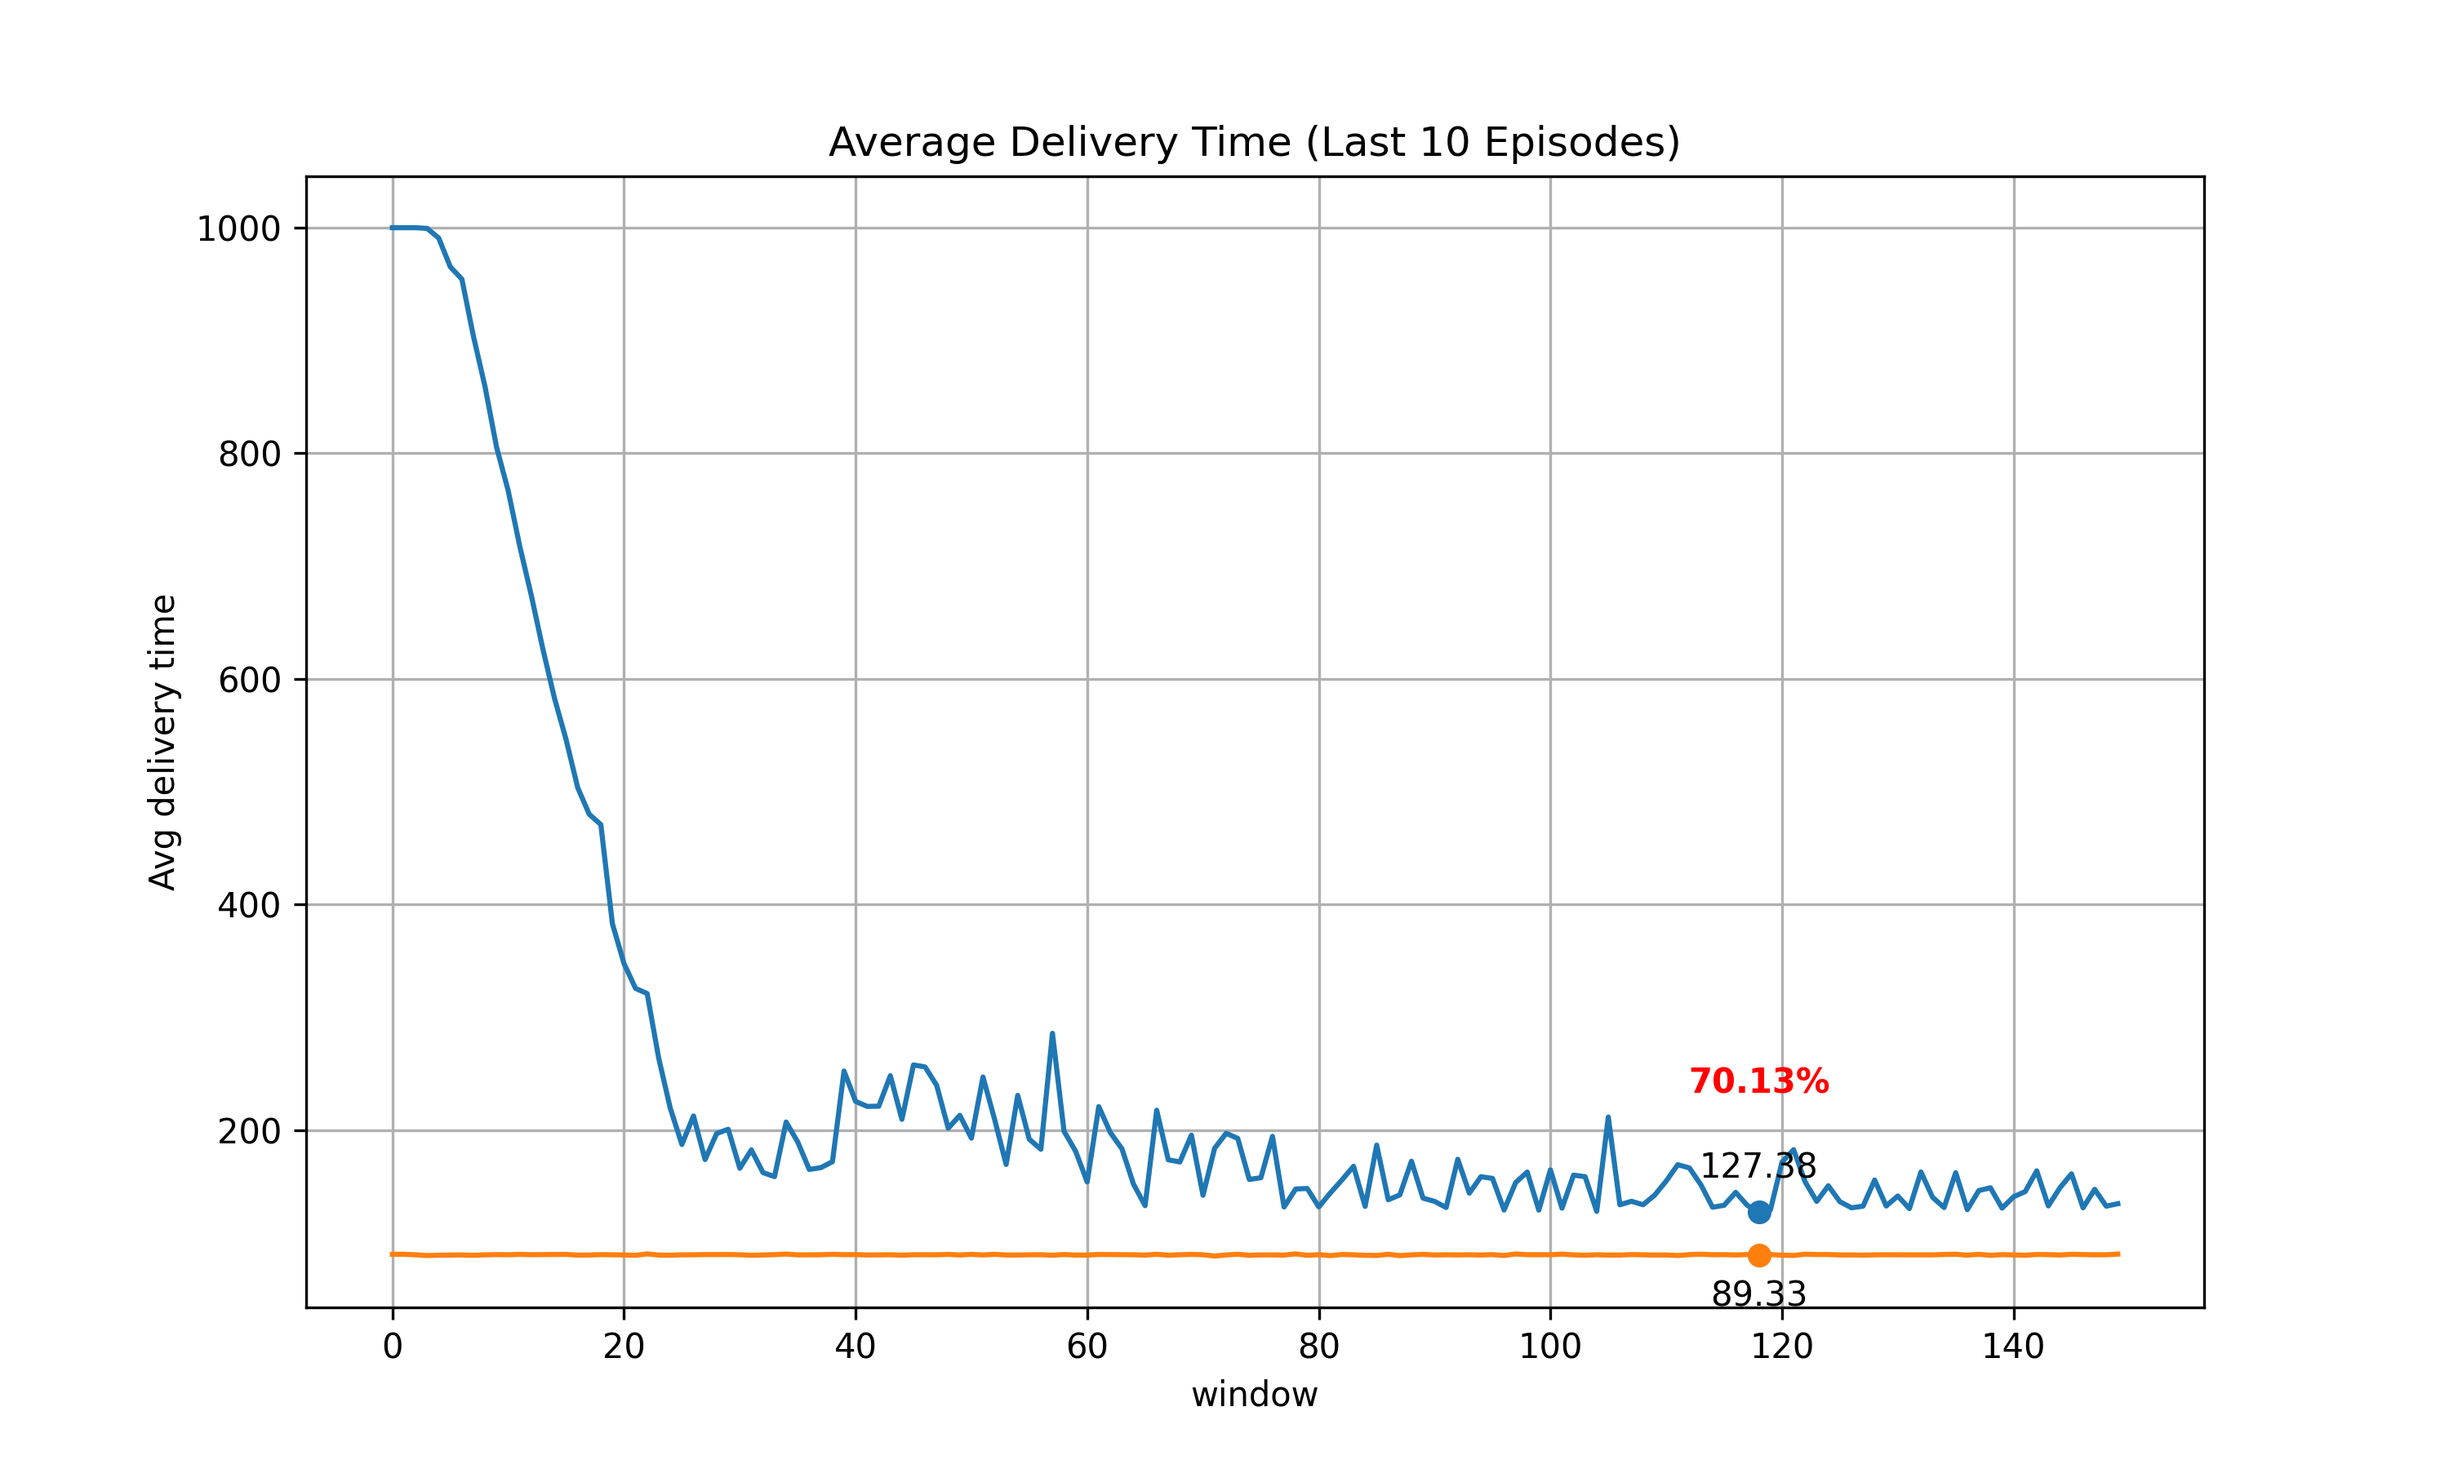
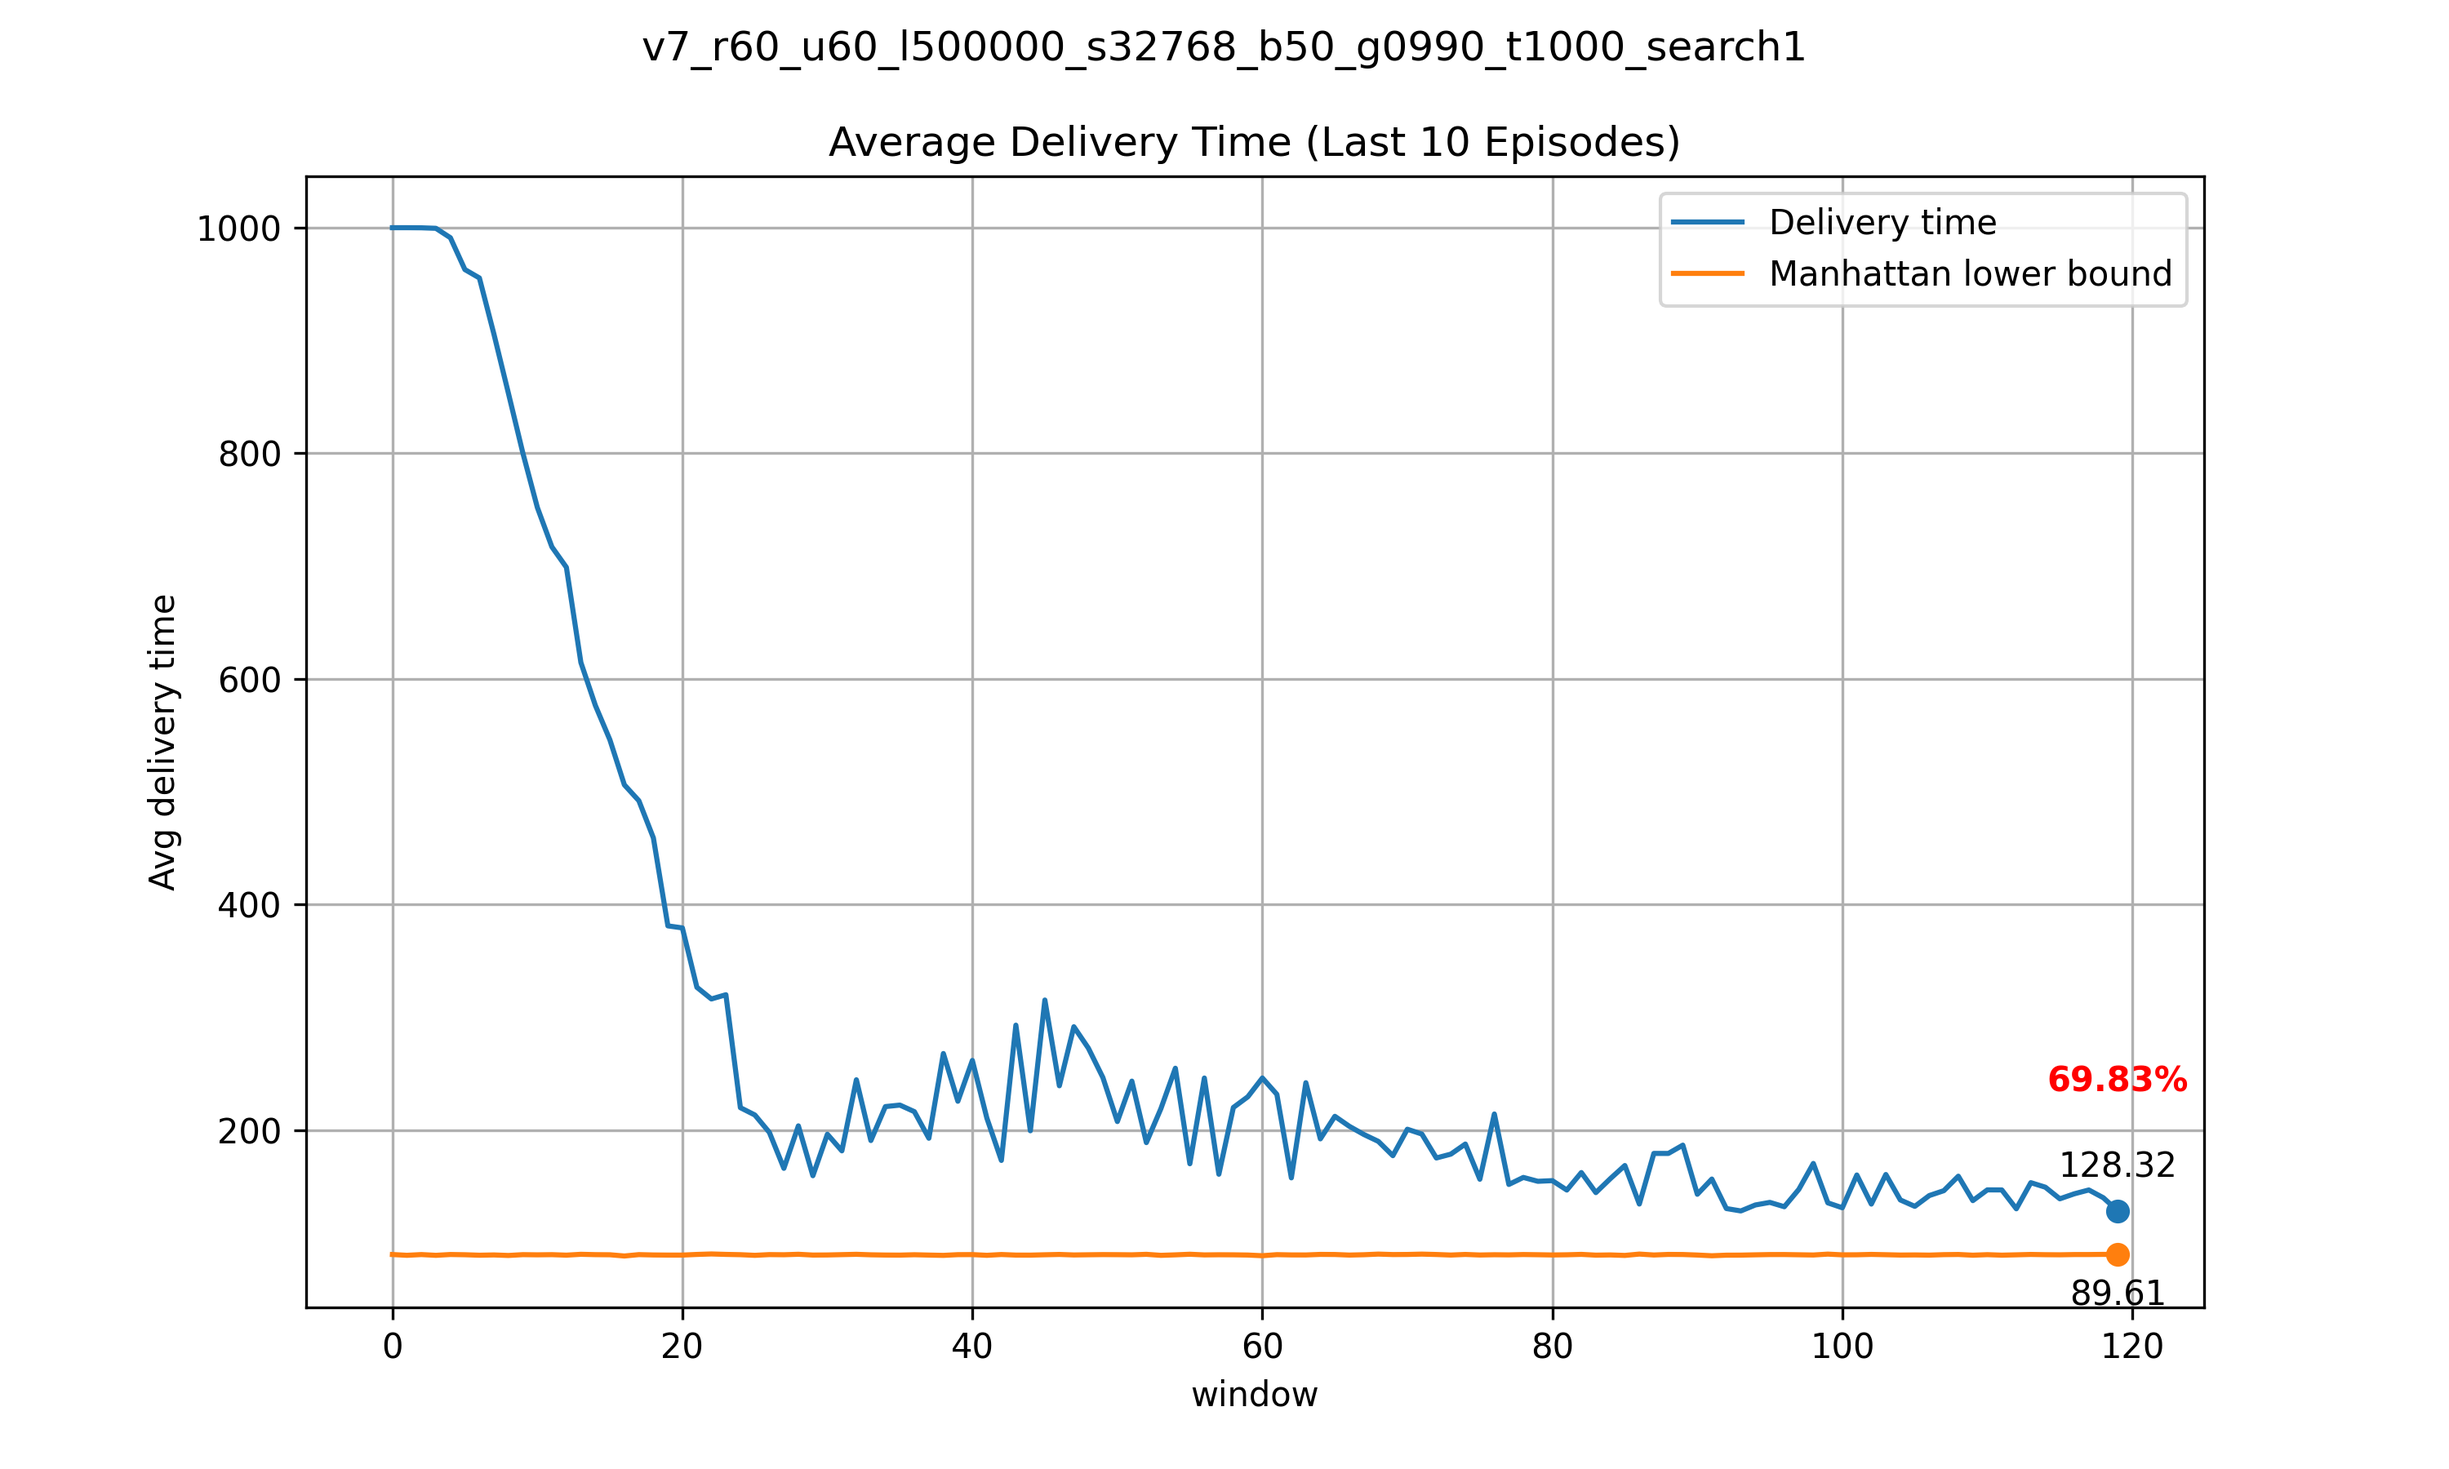
training results

diff --git a/src/utils/experiment_runner.py b/src/utils/experiment_runner.py
@@ -29,15 +29,15 @@ def run_experiments(force_train: bool = True, eval: bool = True):
 
     base_params = {
         "grid_size": [(20, 20)],
-        "step_limit": [1500],
+        "step_limit": [3000],
         "task_length": [5],
         "device": [device],
         "model_class": [MLP],
         "hidden_layers": [{"mlp_layers": [512]}],
-        "view_size": [11],
+        "view_size": [7],
         "buffer_length": [500_000],
         "num_robots": [60],
-        "target_update_interval": [60],
+        "target_update_interval": [30],
         "suffix": ["sample1"],
         "batch_size": [4096 * 6],
         "num_batches": [45],
@@ -50,67 +50,10 @@ def run_experiments(force_train: bool = True, eval: bool = True):
                 {"mlp_layers": [512]},
             ],
             "view_size": [7],
-            "num_batches": [50],
-            "batch_size": [4096 * 8],
-            "num_episodes": [800],
+            "num_batches": [25, 30, 35, 40, 45, 50, 55, 60, 65],
+            "batch_size": [4096 * 8, 4096 * 4, 4096 * 2, 4096],
             "suffix": ["search1"],
-            "step_limit": [
-                600,
-                800,
-                1000,
-                1200,
-                1400,
-                1600,
-                1800,
-                2000,
-                2500,
-                3000,
-                3500,
-                4000,
-            ],
-            "target_update_interval": [60],
-            "buffer_length": [500_000],
-            "float_goal_vector": [True],
-        },
-        {
-            "model_class": [MLP],
-            "hidden_layers": [
-                {"mlp_layers": [512]},
-            ],
-            "view_size": [7],
-            "num_batches": [50],
-            "batch_size": [4096 * 8, 4096 * 16, 4096 * 32, 4096 * 64],
-            "num_episodes": [1500],
-            "suffix": ["search1"],
-            "target_update_interval": [60],
-            "buffer_length": [500_000],
-            "float_goal_vector": [True],
-        },
-        {
-            "model_class": [MLP],
-            "hidden_layers": [
-                {"mlp_layers": [512]},
-            ],
-            "view_size": [7],
-            "num_batches": [50],
-            "batch_size": [4096 * 4],
-            "num_episodes": [1500],
-            "suffix": ["search1"],
-            "target_update_interval": [60],
-            "buffer_length": [500_000],
-            "float_goal_vector": [True],
-        },
-        {
-            "model_class": [MLP],
-            "hidden_layers": [
-                {"mlp_layers": [512]},
-            ],
-            "view_size": [7],
-            "num_batches": [50],
-            "batch_size": [4096 * 2],
-            "num_episodes": [800],
-            "suffix": ["search1"],
-            "target_update_interval": [60],
+            "target_update_interval": [30],
             "buffer_length": [500_000],
             "float_goal_vector": [True],
         },
@@ -122,10 +65,89 @@ def run_experiments(force_train: bool = True, eval: bool = True):
             "view_size": [7],
             "num_batches": [50],
             "batch_size": [4096 * 8],
-            "num_episodes": [1500],
             "suffix": ["search1"],
-            "target_update_interval": [30, 40, 50, 60, 70, 80, 90, 100],
+            "target_update_interval": [30],
             "buffer_length": [500_000],
+            "float_goal_vector": [False],
+        },
+        {
+            "model_class": [MLP],
+            "hidden_layers": [
+                {"mlp_layers": [512]},
+            ],
+            "view_size": [7],
+            "num_batches": [50],
+            "batch_size": [4096 * 8],
+            "suffix": ["search1"],
+            "target_update_interval": [30],
+            "buffer_length": [500_000],
+            "float_goal_vector": [True],
+            "x_position_float": [True],
+            "y_position_float": [True],
+        },
+        {
+            "model_class": [MLP],
+            "hidden_layers": [
+                {"mlp_layers": [512]},
+            ],
+            "view_size": [7],
+            "num_batches": [50],
+            "batch_size": [4096 * 8],
+            "suffix": ["search1"],
+            "target_update_interval": [30],
+            "buffer_length": [500_000],
+            "float_goal_vector": [True],
+            "gamma": [0.8, 0.9, 0.95, 0.98],
+        },
+        {
+            "model_class": [MLP],
+            "hidden_layers": [
+                {"mlp_layers": [512]},
+            ],
+            "view_size": [7],
+            "num_batches": [50],
+            "batch_size": [4096 * 8],
+            "suffix": ["search1"],
+            "target_update_interval": [30],
+            "buffer_length": [500_000],
+            "float_goal_vector": [True],
+            "epsilon_decay": [
+                0.99,
+                0.98,
+                0.991,
+                0.992,
+                0.993,
+                0.994,
+                0.995,
+                0.996,
+                0.997,
+                0.998,
+                0.999,
+            ],
+        },
+        {
+            "model_class": [MLP],
+            "hidden_layers": [
+                {"mlp_layers": [512]},
+            ],
+            "view_size": [7],
+            "num_batches": [50],
+            "batch_size": [4096 * 8],
+            "suffix": ["search1"],
+            "target_update_interval": [30],
+            "buffer_length": [
+                50_000,
+                100_000,
+                200_000,
+                300_000,
+                400_000,
+                500_000,
+                600_000,
+                700_000,
+                800_000,
+                900_000,
+                1_000_000,
+            ],
             "float_goal_vector": [True],
         },
         {
@@ -134,11 +156,10 @@ def run_experiments(force_train: bool = True, eval: bool = True):
                 {"mlp_layers": [512]},
             ],
             "view_size": [7],
-            "num_batches": [100, 150, 200, 250, 300],
+            "num_batches": [50],
             "batch_size": [4096 * 8],
-            "num_episodes": [1500],
             "suffix": ["search1"],
-            "target_update_interval": [60],
+            "target_update_interval": [10, 20, 25, 30, 35],
             "buffer_length": [500_000],
             "float_goal_vector": [True],
         },
@@ -150,9 +171,8 @@ def run_experiments(force_train: bool = True, eval: bool = True):
             "view_size": [7],
             "num_batches": [50],
             "batch_size": [4096 * 8],
-            "num_episodes": [1500],
-            "suffix": ["search1", "search2", "search3"],
-            "target_update_interval": [60],
+            "suffix": ["search1"],
+            "target_update_interval": [30],
             "buffer_length": [500_000],
             "float_goal_vector": [True],
             "modulo_reward_x": [(1, -1)],
@@ -166,9 +186,68 @@ def run_experiments(force_train: bool = True, eval: bool = True):
             "view_size": [7],
             "num_batches": [50],
             "batch_size": [4096 * 8],
-            "num_episodes": [1500],
             "suffix": ["search1"],
-            "target_update_interval": [60],
+            "target_update_interval": [30],
+            "buffer_length": [500_000],
+            "float_goal_vector": [True],
+            "modulo_reward_x": [(2, -2)],
+            "modulo_reward_y": [(2, -2)],
+        },
+        {
+            "model_class": [MLP],
+            "hidden_layers": [
+                {"mlp_layers": [512]},
+            ],
+            "view_size": [7],
+            "num_batches": [50],
+            "batch_size": [4096 * 8],
+            "suffix": ["search1"],
+            "target_update_interval": [30],
+            "buffer_length": [500_000],
+            "float_goal_vector": [True],
+            "modulo_reward_x": [(5, -5)],
+            "modulo_reward_y": [(5, -5)],
+        },
+        {
+            "model_class": [MLP],
+            "hidden_layers": [
+                {"mlp_layers": [512]},
+            ],
+            "view_size": [7],
+            "num_batches": [50],
+            "batch_size": [4096 * 8],
+            "suffix": ["search1"],
+            "target_update_interval": [30],
+            "buffer_length": [500_000],
+            "float_goal_vector": [True],
+            "modulo_reward_x": [(10, -10)],
+            "modulo_reward_y": [(10, -10)],
+        },
+        {
+            "model_class": [MLP],
+            "hidden_layers": [
+                {"mlp_layers": [512]},
+            ],
+            "view_size": [7],
+            "num_batches": [50],
+            "batch_size": [4096 * 8],
+            "suffix": ["search1"],
+            "target_update_interval": [30],
+            "buffer_length": [500_000],
+            "float_goal_vector": [True],
+            "modulo_reward_x": [(20, -20)],
+            "modulo_reward_y": [(20, -20)],
+        },
+        {
+            "model_class": [MLP],
+            "hidden_layers": [
+                {"mlp_layers": [512]},
+            ],
+            "view_size": [7],
+            "num_batches": [50],
+            "batch_size": [4096 * 8],
+            "suffix": ["search1"],
+            "target_update_interval": [30],
             "buffer_length": [500_000],
             "float_goal_vector": [True],
             "task_tsp": [True],

diff --git a/src/core/MultiRobotGridEnv.py b/src/core/MultiRobotGridEnv.py
@@ -440,13 +440,6 @@ class MultiRobotGridEnv(gym.Env):
                     agent.stuck_time = self.stuck_time
 
                 else:
-                    cached_view = np.zeros(
-                        (self.view_dims, self.agent_view_size, self.agent_view_size),
-                        dtype=np.uint8,
-                    )
-                    cached_additional_input = np.zeros(
-                        self.additional_input_size, dtype=np.float32
-                    )
                     agent = DeliveryRobot(
                         position=in_depot.pos,
                         task=in_depot.pop_task(),
@@ -455,8 +448,6 @@ class MultiRobotGridEnv(gym.Env):
                         id=self._next_id(),
                         action_times=self.action_times,
                         stuck_time=self.stuck_time,
-                        cached_view=cached_view,
-                        cached_additional_input=cached_additional_input,
                     )
                 agent.busy_time = self.action_times[TaskType.ENTER]
                 self.agents.add(agent)
@@ -549,15 +540,16 @@ class MultiRobotGridEnv(gym.Env):
         view_grids: np.ndarray = None,
         dummy: bool = False,
     ) -> dict[str, np.ndarray]:
+        view = np.zeros(
+            (self.view_dims, self.agent_view_size, self.agent_view_size),
+            dtype=np.uint8,
+        )
+        additional_input = np.zeros(self.additional_input_size, dtype=np.float32)
         if dummy:
             return {
                 "view": self.dummy_view,
                 "additional_input": self.dummy_additional_input,
             }
-        view = agent.cached_view
-        view.fill(0)
-        additional_input = agent.cached_additional_input
-        additional_input.fill(0)
         # chanel 0: obstacle grid
         # chanel 1: other agents
         # chanel 2: other agents' goals

diff --git a/src/agents/delivery_robot.py b/src/agents/delivery_robot.py
@@ -1,7 +1,5 @@
 from collections import deque
 
-import numpy as np
-
 # if TYPE_CHECKING:
 from src.models.depot import Depot
 from src.models.task import Task
@@ -23,8 +21,6 @@ class DeliveryRobot:
     busy_time: int
     stuck_time: int
     stuck_pos_history: deque[tuple[int, int]]
-    cached_view: np.ndarray
-    cached_additional_input: np.ndarray
 
     def __init__(
         self,
@@ -33,8 +29,6 @@ class DeliveryRobot:
         in_depot: Depot,
         out_depot: Depot,
         id: int,
-        cached_view,
-        cached_additional_input,
         action_times: dict[TaskType, int] | None = None,
         busy_time=0,
         stuck_time=0,
@@ -62,8 +56,6 @@ class DeliveryRobot:
         self.stuck_pos_history = deque(maxlen=self.stuck_time)
         self.should_exit = False
         self.allow_next_observation = False
-        self.cached_view = cached_view
-        self.cached_additional_input = cached_additional_input
 
     def step(self):
         """

diff --git a/src/models/tsp_solver.py b/src/models/tsp_solver.py
@@ -18,7 +18,6 @@ class pyvrp_solver:
         m = Model()
         m.add_vehicle_type(
             num_available=1,
-            capacity=10_000,
         )
 
         m.add_depot(
@@ -39,8 +38,9 @@ class pyvrp_solver:
                 )
 
         result = m.solve(
-            stop=MaxRuntime(1),
+            stop=MaxRuntime(0.01),
             seed=42,
+            display=False,
         )
         route_indices = [i - 1 for i in list(result.best.routes()[0])]
         return route_indices
